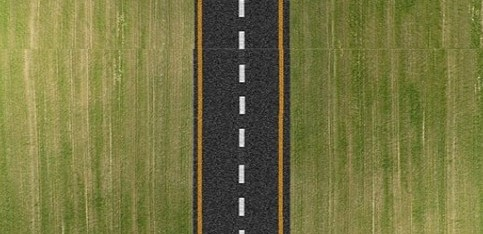
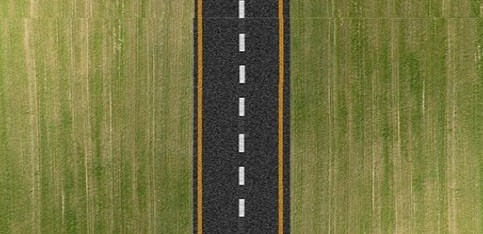
Hacer que el coche vaya hacia delante en una velocidad constante.

diff --git a/src/ventanas/VentanaSimulador.java b/src/ventanas/VentanaSimulador.java
@@ -61,59 +61,8 @@ public class VentanaSimulador extends JFrame {
 		//simuladorPane.setSize(TAM_VENT.width-20,TAM_VENT.height-10);
 		
 		//escalar im�genes
-		Image fondoImg = new ImageIcon(getClass().getResource("../simulador/img/FONDO COCHE (1).jpg")).getImage();
+		Image fondoImg = new ImageIcon(getClass().getResource("../simulador/img/FONDO COCHE (16).jpg")).getImage();
 		ImageIcon fondo = new ImageIcon(fondoImg.getScaledInstance(TAM_VENT.width,TAM_VENT.height, Image.SCALE_SMOOTH));
-		
-		Image fondoImg2 = new ImageIcon(getClass().getResource("../simulador/img/FONDO COCHE (2).jpg")).getImage();
-		ImageIcon fondo2 = new ImageIcon(fondoImg2.getScaledInstance(TAM_VENT.width,TAM_VENT.height, Image.SCALE_SMOOTH));
-		
-		Image fondoImg3 = new ImageIcon(getClass().getResource("../simulador/img/FONDO COCHE (3).jpg")).getImage();
-		ImageIcon fondo3 = new ImageIcon(fondoImg3.getScaledInstance(TAM_VENT.width,TAM_VENT.height, Image.SCALE_SMOOTH));
-		
-		Image fondoImg4 = new ImageIcon(getClass().getResource("../simulador/img/FONDO COCHE (4).jpg")).getImage();
-		ImageIcon fondo4 = new ImageIcon(fondoImg4.getScaledInstance(TAM_VENT.width,TAM_VENT.height, Image.SCALE_SMOOTH));
-		
-		Image fondoImg5 = new ImageIcon(getClass().getResource("../simulador/img/FONDO COCHE (5).jpg")).getImage();
-		ImageIcon fondo5 = new ImageIcon(fondoImg5.getScaledInstance(TAM_VENT.width,TAM_VENT.height, Image.SCALE_SMOOTH));
-		
-		Image fondoImg6 = new ImageIcon(getClass().getResource("../simulador/img/FONDO COCHE (6).jpg")).getImage();
-		ImageIcon fondo6 = new ImageIcon(fondoImg6.getScaledInstance(TAM_VENT.width,TAM_VENT.height, Image.SCALE_SMOOTH));
-		
-		Image fondoImg7 = new ImageIcon(getClass().getResource("../simulador/img/FONDO COCHE (7).jpg")).getImage();
-		ImageIcon fondo7 = new ImageIcon(fondoImg7.getScaledInstance(TAM_VENT.width,TAM_VENT.height, Image.SCALE_SMOOTH));
-		
-		Image fondoImg8 = new ImageIcon(getClass().getResource("../simulador/img/FONDO COCHE (8).jpg")).getImage();
-		ImageIcon fondo8 = new ImageIcon(fondoImg8.getScaledInstance(TAM_VENT.width,TAM_VENT.height, Image.SCALE_SMOOTH));
-		
-		Image fondoImg9 = new ImageIcon(getClass().getResource("../simulador/img/FONDO COCHE (9).jpg")).getImage();
-		ImageIcon fondo9 = new ImageIcon(fondoImg9.getScaledInstance(TAM_VENT.width,TAM_VENT.height, Image.SCALE_SMOOTH));
-		
-		Image fondoImg10 = new ImageIcon(getClass().getResource("../simulador/img/FONDO COCHE (10).jpg")).getImage();
-		ImageIcon fondo10 = new ImageIcon(fondoImg10.getScaledInstance(TAM_VENT.width,TAM_VENT.height, Image.SCALE_SMOOTH));
-		
-		Image fondoImg11 = new ImageIcon(getClass().getResource("../simulador/img/FONDO COCHE (11).jpg")).getImage();
-		ImageIcon fondo11 = new ImageIcon(fondoImg11.getScaledInstance(TAM_VENT.width,TAM_VENT.height, Image.SCALE_SMOOTH));
-		
-		Image fondoImg12 = new ImageIcon(getClass().getResource("../simulador/img/FONDO COCHE (12).jpg")).getImage();
-		ImageIcon fondo12 = new ImageIcon(fondoImg12.getScaledInstance(TAM_VENT.width,TAM_VENT.height, Image.SCALE_SMOOTH));
-		
-		Image fondoImg13 = new ImageIcon(getClass().getResource("../simulador/img/FONDO COCHE (13).jpg")).getImage();
-		ImageIcon fondo13 = new ImageIcon(fondoImg13.getScaledInstance(TAM_VENT.width,TAM_VENT.height, Image.SCALE_SMOOTH));
-		
-		Image fondoImg14 = new ImageIcon(getClass().getResource("../simulador/img/FONDO COCHE (14).jpg")).getImage();
-		ImageIcon fondo14 = new ImageIcon(fondoImg14.getScaledInstance(TAM_VENT.width,TAM_VENT.height, Image.SCALE_SMOOTH));
-		
-		Image fondoImg15 = new ImageIcon(getClass().getResource("../simulador/img/FONDO COCHE (15).jpg")).getImage();
-		ImageIcon fondo15 = new ImageIcon(fondoImg15.getScaledInstance(TAM_VENT.width,TAM_VENT.height, Image.SCALE_SMOOTH));
-		
-		Image fondoImg16 = new ImageIcon(getClass().getResource("../simulador/img/FONDO COCHE (16).jpg")).getImage();
-		ImageIcon fondo16 = new ImageIcon(fondoImg16.getScaledInstance(TAM_VENT.width,TAM_VENT.height, Image.SCALE_SMOOTH));
-		
-		Image fondoImg17 = new ImageIcon(getClass().getResource("../simulador/img/FONDO COCHE (17).jpg")).getImage();
-		ImageIcon fondo17 = new ImageIcon(fondoImg17.getScaledInstance(TAM_VENT.width,TAM_VENT.height, Image.SCALE_SMOOTH));
-		
-		Image fondoImg18 = new ImageIcon(getClass().getResource("../simulador/img/FONDO COCHE (18).jpg")).getImage();
-		ImageIcon fondo18 = new ImageIcon(fondoImg18.getScaledInstance(TAM_VENT.width,TAM_VENT.height, Image.SCALE_SMOOTH));
 		
 		Image cocheImg = new ImageIcon(getClass().getResource("../simulador/img/coche.png")).getImage();
 		ImageIcon coche = new ImageIcon(cocheImg.getScaledInstance(100, 150, Image.SCALE_SMOOTH));
@@ -123,9 +72,7 @@ public class VentanaSimulador extends JFrame {
 		label2.setBounds(280, 200, 515, 513);
 		simuladorPane.add(label2);
 		//JPanel.add(image, BorderLayout.NORTH);
-		JLabel label = new JLabel(fondo);
-		label.setBounds(10, 10, 966, 542);
-		simuladorPane.add(label);
+		
 		
 		//Crear panel para botones 
 		JPanel panelBotonero= new JPanel();
@@ -149,6 +96,48 @@ public class VentanaSimulador extends JFrame {
 		JSplitPane splitPane = new JSplitPane(JSplitPane.HORIZONTAL_SPLIT,panelBotonero,simuladorPane);
 		
 		cp.add(splitPane);
+		
+		Thread time = new Thread(){
+            public void run(){
+            	simuladorPane.setLayout(null);
+        		//JPanel.add(image, BorderLayout.NORTH);
+        		JLabel label = new JLabel(fondo);
+        		label.setBounds(10, 10, 966, 542);
+        		simuladorPane.add(label);
+        		int num=15;
+        		 while(true){
+             		try {
+							sleep(400);
+						} catch (InterruptedException e1) {
+							// TODO Auto-generated catch block
+							e1.printStackTrace();
+						}
+                	Image fondoImg2 = new ImageIcon(getClass().getResource("../simulador/img/FONDO COCHE ("+ num +").jpg")).getImage();
+            		ImageIcon fondo2 = new ImageIcon(fondoImg2.getScaledInstance(TAM_VENT.width,TAM_VENT.height, Image.SCALE_SMOOTH));
+            		simuladorPane.setLayout(null);
+            		simuladorPane.remove(label);
+            		label.setVisible(false);
+            		
+            		JLabel picSecond = new JLabel(fondo2);
+            		picSecond.setBounds(10, 10, 966, 542);
+            		simuladorPane.add(picSecond);
+            		picSecond.setVisible(true);
+            		simuladorPane.revalidate();
+            		simuladorPane.repaint();
+            		
+            		label = picSecond;
+            		            		
+            		num = num-1;
+            		if (num==0){
+            			num = 16;  		
+                    }
+            		
+
+
+                }
+            }
+        };
+        time.start();
 		
 	}
 	
